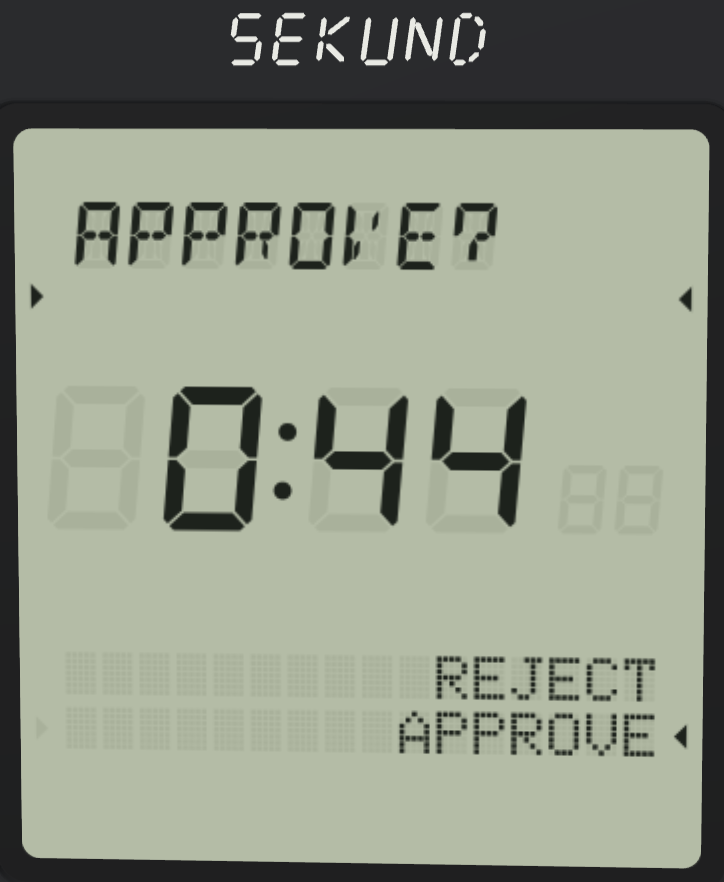
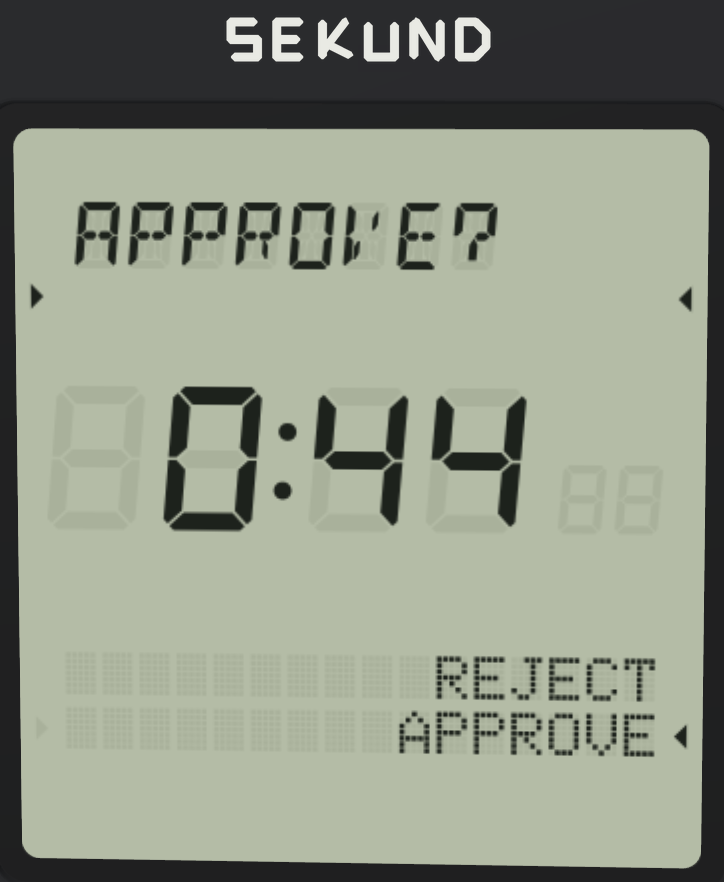
Draw four SEKUND wordmark directions and make the chamfer mark the deck's live one
deck/src/brand holds Block, Chamfer, Round and Dots as one evenodd polygon
path each on a 100-unit cap, plus the v2 segment mark for comparison.
WORDMARK in brand/index.ts is the single switch; Wordmark takes an
optional spec so the option sheet can draw them all. The LCD crops on
the proof, how-it-works and shipped slides carry the new mark; the
bezel crop with the old mark painted out is for the on-face preview.

Changed region(s): [[0.3039, 0.0, 0.6989, 0.0918]]

diff --git a/deck/src/brand/wordmark-round.ts b/deck/src/brand/wordmark-round.ts
@@ -1,0 +1,14 @@
+import type { WordmarkSpec } from "./types";
+
+/** Option C: Round. Extended, rounded, airy. Letters as if molded into soft resin; the friendliest of the set. Drawn from stroke skeletons on a 100-unit cap; polygons only, fill-rule evenodd. */
+export const ROUND: WordmarkSpec = {
+  id: "round",
+  label: "C",
+  name: "Round",
+  note: "Extended, rounded, airy. Letters as if molded into soft resin; the friendliest of the set.",
+  viewBox: "0 0 714 112",
+  width: 714,
+  height: 112,
+  path:
+    "M35.23,6.00 L30.66,6.36 L26.84,7.25 L25.57,7.66 L22.57,8.91 L21.38,9.51 L18.05,11.58 L14.56,14.56 L11.58,18.05 L9.51,21.38 L8.91,22.57 L7.66,25.57 L7.25,26.84 L6.36,30.66 L6.00,35.23 L6.36,39.84 L7.25,43.66 L7.66,44.93 L8.91,47.93 L9.51,49.12 L11.21,51.90 L12.00,52.98 L14.56,55.94 L17.52,58.50 L18.60,59.29 L21.96,61.31 L25.57,62.84 L26.84,63.25 L30.66,64.14 L35.23,64.50 L68.44,64.50 L70.68,64.68 L72.54,65.12 L74.31,65.86 L75.94,66.86 L77.40,68.10 L78.64,69.56 L79.64,71.19 L80.38,72.96 L80.82,74.82 L80.97,76.73 L80.82,78.68 L80.38,80.54 L79.64,82.31 L78.64,83.94 L77.40,85.40 L75.94,86.64 L74.31,87.64 L72.54,88.38 L70.68,88.82 L68.44,89.00 L14.50,89.00 L13.67,89.04 L12.84,89.16 L12.03,89.37 L11.25,89.65 L10.49,90.00 L9.78,90.43 L9.11,90.93 L8.49,91.49 L7.93,92.11 L7.43,92.78 L7.00,93.49 L6.65,94.25 L6.37,95.03 L6.16,95.84 L6.04,96.67 L6.00,97.50 L6.04,98.33 L6.16,99.16 L6.37,99.97 L6.65,100.75 L7.00,101.51 L7.43,102.22 L7.93,102.89 L8.49,103.51 L9.11,104.07 L9.78,104.57 L10.49,105.00 L11.25,105.35 L12.03,105.63 L12.84,105.84 L13.67,105.96 L14.50,106.00 L69.44,105.97 L73.34,105.64 L77.16,104.75 L78.43,104.34 L82.04,102.81 L85.95,100.42 L88.95,97.89 L89.89,96.95 L92.42,93.95 L94.49,90.62 L95.09,89.43 L96.57,85.80 L97.51,82.00 L97.72,80.68 L98.00,76.77 L97.72,72.82 L97.51,71.50 L96.57,67.70 L95.09,64.07 L94.49,62.88 L92.79,60.10 L92.00,59.02 L89.44,56.06 L86.48,53.50 L85.40,52.71 L82.04,50.69 L78.43,49.16 L77.16,48.75 L74.00,47.99 L72.68,47.78 L68.77,47.50 L35.56,47.50 L33.32,47.32 L31.46,46.88 L29.69,46.14 L28.06,45.14 L26.60,43.90 L25.36,42.44 L24.36,40.81 L23.62,39.04 L23.18,37.18 L23.03,35.23 L23.18,33.32 L23.62,31.46 L24.36,29.69 L25.36,28.06 L26.60,26.60 L28.06,25.36 L29.69,24.36 L31.46,23.62 L33.32,23.18 L35.56,23.00 L89.50,23.00 L90.33,22.96 L91.16,22.84 L91.97,22.63 L92.75,22.35 L93.51,22.00 L94.22,21.57 L94.89,21.07 L95.51,20.51 L96.07,19.89 L96.57,19.22 L97.00,18.51 L97.35,17.75 L97.63,16.97 L97.84,16.16 L97.96,15.33 L98.00,14.50 L97.96,13.67 L97.84,12.84 L97.63,12.03 L97.35,11.25 L97.00,10.49 L96.57,9.78 L96.07,9.11 L95.51,8.49 L94.89,7.93 L94.22,7.43 L93.51,7.00 L92.75,6.65 L91.97,6.37 L91.16,6.16 L90.33,6.04 L89.50,6.00 Z M206.38,64.46 L207.21,64.34 L208.02,64.13 L208.80,63.85 L209.56,63.50 L210.27,63.07 L210.94,62.57 L211.56,62.01 L212.12,61.39 L212.62,60.72 L213.05,60.01 L213.40,59.25 L213.68,58.47 L213.89,57.66 L214.01,56.83 L214.05,56.00 L214.01,55.17 L213.89,54.34 L213.68,53.53 L213.40,52.75 L213.05,51.99 L212.62,51.28 L212.12,50.61 L211.56,49.99 L210.94,49.43 L210.27,48.93 L209.56,48.50 L208.80,48.15 L208.02,47.87 L207.21,47.66 L206.38,47.54 L205.55,47.50 L145.00,47.50 L145.00,25.83 L145.06,25.11 L145.30,24.38 L145.75,23.75 L146.05,23.50 L146.74,23.15 L147.83,23.00 L211.50,23.00 L212.33,22.96 L213.16,22.84 L213.97,22.63 L214.75,22.35 L215.51,22.00 L216.22,21.57 L216.89,21.07 L217.51,20.51 L218.07,19.89 L218.57,19.22 L219.00,18.51 L219.35,17.75 L219.63,16.97 L219.84,16.16 L219.96,15.33 L220.00,14.50 L219.96,13.67 L219.84,12.84 L219.63,12.03 L219.35,11.25 L219.00,10.49 L218.57,9.78 L218.07,9.11 L217.51,8.49 L216.89,7.93 L216.22,7.43 L215.51,7.00 L214.75,6.65 L213.97,6.37 L213.16,6.16 L212.33,6.04 L211.50,6.00 L146.83,6.03 L144.45,6.24 L142.12,6.77 L140.85,7.19 L138.65,8.13 L136.59,9.35 L135.51,10.14 L133.71,11.71 L131.72,14.04 L130.13,16.65 L128.95,19.47 L128.24,22.45 L128.03,24.83 L128.03,87.17 L128.24,89.55 L128.77,91.88 L129.19,93.15 L130.13,95.35 L131.72,97.96 L133.26,99.80 L134.20,100.74 L136.04,102.28 L138.65,103.87 L141.47,105.05 L144.45,105.76 L147.50,106.00 L211.50,106.00 L212.33,105.96 L213.16,105.84 L213.97,105.63 L214.75,105.35 L215.51,105.00 L216.22,104.57 L216.89,104.07 L217.51,103.51 L218.07,102.89 L218.57,102.22 L219.00,101.51 L219.35,100.75 L219.63,99.97 L219.84,99.16 L219.96,98.33 L220.00,97.50 L219.96,96.67 L219.84,95.84 L219.63,95.03 L219.35,94.25 L219.00,93.49 L218.57,92.78 L218.07,92.11 L217.51,91.49 L216.89,90.93 L216.22,90.43 L215.51,90.00 L214.75,89.65 L213.97,89.37 L213.16,89.16 L212.33,89.04 L211.50,89.00 L147.83,89.00 L146.74,88.85 L146.05,88.50 L145.50,87.95 L145.15,87.26 L145.06,86.89 L145.00,86.17 L145.00,64.50 L205.55,64.50 Z M337.90,20.76 L339.04,19.78 L339.53,19.21 L340.33,17.94 L340.87,16.54 L341.04,15.81 L341.15,14.31 L340.96,12.83 L340.49,11.40 L339.76,10.10 L338.78,8.96 L337.59,8.04 L336.25,7.36 L334.81,6.96 L333.31,6.85 L332.57,6.91 L331.10,7.24 L329.73,7.84 L267.00,43.36 L267.00,14.50 L266.96,13.67 L266.84,12.84 L266.63,12.03 L266.35,11.25 L266.00,10.49 L265.57,9.78 L265.07,9.11 L264.51,8.49 L263.89,7.93 L263.22,7.43 L262.51,7.00 L261.75,6.65 L260.97,6.37 L260.16,6.16 L259.33,6.04 L258.50,6.00 L257.67,6.04 L256.84,6.16 L256.03,6.37 L255.25,6.65 L254.49,7.00 L253.78,7.43 L253.11,7.93 L252.49,8.49 L251.93,9.11 L251.43,9.78 L251.00,10.49 L250.65,11.25 L250.37,12.03 L250.16,12.84 L250.04,13.67 L250.00,14.50 L250.00,97.50 L250.04,98.33 L250.16,99.16 L250.37,99.97 L250.65,100.75 L251.00,101.51 L251.43,102.22 L251.93,102.89 L252.49,103.51 L253.11,104.07 L253.78,104.57 L254.49,105.00 L255.25,105.35 L256.03,105.63 L256.84,105.84 L257.67,105.96 L258.50,106.00 L259.33,105.96 L260.16,105.84 L260.97,105.63 L261.75,105.35 L262.51,105.00 L263.22,104.57 L263.89,104.07 L264.51,103.51 L265.07,102.89 L265.57,102.22 L266.00,101.51 L266.35,100.75 L266.63,99.97 L266.84,99.16 L266.96,98.33 L267.00,97.50 L267.00,68.64 L330.40,104.49 L331.83,104.96 L332.57,105.09 L333.31,105.15 L334.81,105.04 L336.25,104.64 L336.94,104.33 L337.59,103.96 L338.78,103.04 L339.76,101.90 L340.49,100.60 L340.96,99.17 L341.15,97.69 L341.13,96.94 L340.87,95.46 L340.33,94.06 L339.96,93.41 L339.04,92.22 L337.90,91.24 L275.73,56.00 Z M372.00,75.50 L372.38,80.27 L373.49,84.93 L375.32,89.35 L377.82,93.43 L380.93,97.07 L384.57,100.18 L388.65,102.68 L393.07,104.51 L397.73,105.62 L402.50,106.00 L434.17,105.97 L438.27,105.62 L442.93,104.51 L447.35,102.68 L451.43,100.18 L454.58,97.52 L455.52,96.58 L458.18,93.43 L460.35,89.93 L460.96,88.74 L462.51,84.93 L463.62,80.27 L464.00,75.50 L464.00,14.50 L463.96,13.67 L463.84,12.84 L463.63,12.03 L463.35,11.25 L463.00,10.49 L462.57,9.78 L462.07,9.11 L461.51,8.49 L460.89,7.93 L460.22,7.43 L459.51,7.00 L458.75,6.65 L457.97,6.37 L457.16,6.16 L456.33,6.04 L455.50,6.00 L454.67,6.04 L453.84,6.16 L453.03,6.37 L452.25,6.65 L451.49,7.00 L450.78,7.43 L450.11,7.93 L449.49,8.49 L448.93,9.11 L448.43,9.78 L448.00,10.49 L447.65,11.25 L447.37,12.03 L447.16,12.84 L447.04,13.67 L447.00,14.50 L447.00,75.17 L446.81,77.61 L446.31,79.66 L445.51,81.62 L444.40,83.42 L443.03,85.03 L441.42,86.40 L439.62,87.51 L437.66,88.31 L435.61,88.81 L433.17,89.00 L402.83,89.00 L400.39,88.81 L398.34,88.31 L396.38,87.51 L394.58,86.40 L392.97,85.03 L391.60,83.42 L390.49,81.62 L389.69,79.66 L389.19,77.61 L389.00,75.17 L389.00,14.50 L388.96,13.67 L388.84,12.84 L388.63,12.03 L388.35,11.25 L388.00,10.49 L387.57,9.78 L387.07,9.11 L386.51,8.49 L385.89,7.93 L385.22,7.43 L384.51,7.00 L383.75,6.65 L382.97,6.37 L382.16,6.16 L381.33,6.04 L380.50,6.00 L379.67,6.04 L378.84,6.16 L378.03,6.37 L377.25,6.65 L376.49,7.00 L375.78,7.43 L375.11,7.93 L374.49,8.49 L373.93,9.11 L373.43,9.78 L373.00,10.49 L372.65,11.25 L372.37,12.03 L372.16,12.84 L372.04,13.67 L372.00,14.50 Z M511.00,36.58 L571.77,103.78 L573.08,104.76 L574.55,105.47 L576.13,105.89 L577.76,106.00 L579.38,105.79 L580.93,105.28 L582.36,104.48 L583.60,103.42 L584.62,102.14 L585.38,100.69 L585.84,99.13 L586.00,97.50 L586.00,14.50 L585.96,13.67 L585.84,12.84 L585.63,12.03 L585.35,11.25 L585.00,10.49 L584.57,9.78 L584.07,9.11 L583.51,8.49 L582.89,7.93 L582.22,7.43 L581.51,7.00 L580.75,6.65 L579.97,6.37 L579.16,6.16 L578.33,6.04 L577.50,6.00 L576.67,6.04 L575.84,6.16 L575.03,6.37 L574.25,6.65 L573.49,7.00 L572.78,7.43 L572.11,7.93 L571.49,8.49 L570.93,9.11 L570.43,9.78 L570.00,10.49 L569.65,11.25 L569.37,12.03 L569.16,12.84 L569.04,13.67 L569.00,14.50 L569.00,75.42 L508.23,8.22 L506.92,7.24 L505.45,6.53 L503.87,6.11 L502.24,6.00 L500.62,6.21 L499.83,6.43 L498.34,7.09 L497.00,8.02 L495.86,9.20 L494.97,10.56 L494.62,11.31 L494.16,12.87 L494.00,14.50 L494.00,97.50 L494.04,98.33 L494.16,99.16 L494.37,99.97 L494.65,100.75 L495.00,101.51 L495.43,102.22 L495.93,102.89 L496.49,103.51 L497.11,104.07 L497.78,104.57 L498.49,105.00 L499.25,105.35 L500.03,105.63 L500.84,105.84 L501.67,105.96 L502.50,106.00 L503.33,105.96 L504.16,105.84 L504.97,105.63 L505.75,105.35 L506.51,105.00 L507.22,104.57 L507.89,104.07 L508.51,103.51 L509.07,102.89 L509.57,102.22 L510.00,101.51 L510.35,100.75 L510.63,99.97 L510.84,99.16 L510.96,98.33 L511.00,97.50 Z M658.00,106.00 L665.16,105.46 L666.48,105.25 L673.45,103.55 L680.70,100.55 L687.39,96.45 L692.87,91.81 L693.81,90.87 L698.45,85.39 L702.22,79.28 L702.83,78.09 L705.55,71.45 L707.38,63.82 L708.00,56.00 L707.46,48.84 L707.25,47.52 L705.73,41.19 L705.32,39.92 L702.55,33.30 L698.82,27.17 L698.04,26.09 L693.36,20.64 L687.91,15.96 L686.83,15.18 L680.70,11.45 L674.08,8.68 L672.81,8.27 L665.82,6.62 L658.00,6.00 L624.50,6.00 L623.67,6.04 L622.84,6.16 L622.03,6.37 L621.25,6.65 L620.49,7.00 L619.78,7.43 L619.11,7.93 L618.49,8.49 L617.93,9.11 L617.43,9.78 L617.00,10.49 L616.65,11.25 L616.37,12.03 L616.16,12.84 L616.04,13.67 L616.00,14.50 L616.00,97.50 L616.04,98.33 L616.16,99.16 L616.37,99.97 L616.65,100.75 L617.00,101.51 L617.43,102.22 L617.93,102.89 L618.49,103.51 L619.11,104.07 L619.78,104.57 L620.49,105.00 L621.25,105.35 L622.03,105.63 L622.84,105.84 L623.67,105.96 Z M633.00,23.00 L657.67,23.00 L663.16,23.43 L668.19,24.64 L672.97,26.62 L677.38,29.32 L681.32,32.68 L684.68,36.62 L687.38,41.03 L689.36,45.81 L690.57,50.84 L690.97,56.00 L690.57,61.16 L689.36,66.19 L687.38,70.97 L684.68,75.38 L681.32,79.32 L677.38,82.68 L672.97,85.38 L668.19,87.36 L663.16,88.57 L657.67,89.00 L633.00,89.00 Z",
+};

diff --git a/deck/src/brand/wordmark-dots.ts b/deck/src/brand/wordmark-dots.ts
@@ -1,0 +1,14 @@
+import type { WordmarkSpec } from "./types";
+
+/** Option D: Dots. 5x7 dot matrix, square dots. Native to the watch's text strip and to the dither; a readout more than a mark. Drawn from stroke skeletons on a 100-unit cap; polygons only, fill-rule evenodd. */
+export const DOTS: WordmarkSpec = {
+  id: "dots",
+  label: "D",
+  name: "Dots",
+  note: "5x7 dot matrix, square dots. Native to the watch's text strip and to the dither; a readout more than a mark.",
+  viewBox: "0 0 552 103",
+  width: 552,
+  height: 103,
+  path:
+    "M31.80,17.05 L31.80,5.53 L20.28,5.53 L20.28,17.05 Z M46.54,5.53 L35.02,5.53 L35.02,17.05 L46.54,17.05 Z M17.05,20.28 L5.53,20.28 L5.53,31.80 L17.05,31.80 Z M17.05,35.02 L5.53,35.02 L5.53,46.54 L17.05,46.54 Z M31.80,49.77 L20.28,49.77 L20.28,61.29 L31.80,61.29 Z M46.54,49.77 L35.02,49.77 L35.02,61.29 L46.54,61.29 Z M17.05,94.01 L5.53,94.01 L5.53,105.53 L17.05,105.53 Z M31.80,94.01 L20.28,94.01 L20.28,105.53 L31.80,105.53 Z M61.29,5.53 L49.77,5.53 L49.77,17.05 L61.29,17.05 Z M76.04,5.53 L64.52,5.53 L64.52,17.05 L76.04,17.05 Z M61.29,49.77 L49.77,49.77 L49.77,61.29 L61.29,61.29 Z M76.04,64.52 L64.52,64.52 L64.52,76.04 L76.04,76.04 Z M76.04,79.26 L64.52,79.26 L64.52,90.78 L76.04,90.78 Z M46.54,94.01 L35.02,94.01 L35.02,105.53 L46.54,105.53 Z M61.29,94.01 L49.77,94.01 L49.77,105.53 L61.29,105.53 Z M111.15,5.53 L99.63,5.53 L99.63,17.05 L111.15,17.05 Z M125.90,5.53 L114.38,5.53 L114.38,17.05 L125.90,17.05 Z M111.15,20.28 L99.63,20.28 L99.63,31.80 L111.15,31.80 Z M111.15,35.02 L99.63,35.02 L99.63,46.54 L111.15,46.54 Z M111.15,49.77 L99.63,49.77 L99.63,61.29 L111.15,61.29 Z M111.15,64.52 L99.63,64.52 L99.63,76.04 L111.15,76.04 Z M111.15,79.26 L99.63,79.26 L99.63,90.78 L111.15,90.78 Z M99.63,94.01 L99.63,105.53 L111.15,105.53 L111.15,94.01 Z M114.38,94.01 L114.38,105.53 L125.90,105.53 L125.90,94.01 Z M140.65,5.53 L129.12,5.53 L129.12,17.05 L140.65,17.05 Z M155.39,5.53 L143.87,5.53 L143.87,17.05 L155.39,17.05 Z M170.14,5.53 L158.62,5.53 L158.62,17.05 L170.14,17.05 Z M125.90,49.77 L114.38,49.77 L114.38,61.29 L125.90,61.29 Z M140.65,49.77 L129.12,49.77 L129.12,61.29 L140.65,61.29 Z M155.39,49.77 L143.87,49.77 L143.87,61.29 L155.39,61.29 Z M140.65,94.01 L129.12,94.01 L129.12,105.53 L140.65,105.53 Z M143.87,94.01 L143.87,105.53 L155.39,105.53 L155.39,94.01 Z M158.62,94.01 L158.62,105.53 L170.14,105.53 L170.14,94.01 Z M205.25,17.05 L205.25,5.53 L193.73,5.53 L193.73,17.05 Z M205.25,20.28 L193.73,20.28 L193.73,31.80 L205.25,31.80 Z M205.25,35.02 L193.73,35.02 L193.73,46.54 L205.25,46.54 Z M205.25,49.77 L193.73,49.77 L193.73,61.29 L205.25,61.29 Z M205.25,64.52 L193.73,64.52 L193.73,76.04 L205.25,76.04 Z M205.25,79.26 L193.73,79.26 L193.73,90.78 L205.25,90.78 Z M205.25,94.01 L193.73,94.01 L193.73,105.53 L205.25,105.53 Z M264.24,17.05 L264.24,5.53 L252.72,5.53 L252.72,17.05 Z M249.49,20.28 L237.97,20.28 L237.97,31.80 L249.49,31.80 Z M234.75,35.02 L223.23,35.02 L223.23,46.54 L234.75,46.54 Z M220.00,49.77 L208.48,49.77 L208.48,61.29 L220.00,61.29 Z M234.75,64.52 L223.23,64.52 L223.23,76.04 L234.75,76.04 Z M249.49,79.26 L237.97,79.26 L237.97,90.78 L249.49,90.78 Z M264.24,94.01 L252.72,94.01 L252.72,105.53 L264.24,105.53 Z M299.35,17.05 L299.35,5.53 L287.83,5.53 L287.83,17.05 Z M299.35,20.28 L287.83,20.28 L287.83,31.80 L299.35,31.80 Z M299.35,35.02 L287.83,35.02 L287.83,46.54 L299.35,46.54 Z M299.35,49.77 L287.83,49.77 L287.83,61.29 L299.35,61.29 Z M299.35,64.52 L287.83,64.52 L287.83,76.04 L299.35,76.04 Z M299.35,79.26 L287.83,79.26 L287.83,90.78 L299.35,90.78 Z M314.10,94.01 L302.58,94.01 L302.58,105.53 L314.10,105.53 Z M328.85,94.01 L317.33,94.01 L317.33,105.53 L328.85,105.53 Z M358.34,5.53 L346.82,5.53 L346.82,17.05 L358.34,17.05 Z M358.34,20.28 L346.82,20.28 L346.82,31.80 L358.34,31.80 Z M358.34,35.02 L346.82,35.02 L346.82,46.54 L358.34,46.54 Z M358.34,49.77 L346.82,49.77 L346.82,61.29 L358.34,61.29 Z M358.34,64.52 L346.82,64.52 L346.82,76.04 L358.34,76.04 Z M358.34,79.26 L346.82,79.26 L346.82,90.78 L358.34,90.78 Z M343.59,94.01 L332.07,94.01 L332.07,105.53 L343.59,105.53 Z M393.46,5.53 L381.94,5.53 L381.94,17.05 L393.46,17.05 Z M393.46,20.28 L381.94,20.28 L381.94,31.80 L393.46,31.80 Z M408.20,20.28 L396.68,20.28 L396.68,31.80 L408.20,31.80 Z M393.46,35.02 L381.94,35.02 L381.94,46.54 L393.46,46.54 Z M408.20,35.02 L396.68,35.02 L396.68,46.54 L408.20,46.54 Z M393.46,49.77 L381.94,49.77 L381.94,61.29 L393.46,61.29 Z M422.95,49.77 L411.43,49.77 L411.43,61.29 L422.95,61.29 Z M381.94,64.52 L381.94,76.04 L393.46,76.04 L393.46,64.52 Z M381.94,79.26 L381.94,90.78 L393.46,90.78 L393.46,79.26 Z M393.46,94.01 L381.94,94.01 L381.94,105.53 L393.46,105.53 Z M452.44,5.53 L440.92,5.53 L440.92,17.05 L452.44,17.05 Z M452.44,20.28 L440.92,20.28 L440.92,31.80 L452.44,31.80 Z M440.92,35.02 L440.92,46.54 L452.44,46.54 L452.44,35.02 Z M440.92,49.77 L440.92,61.29 L452.44,61.29 L452.44,49.77 Z M437.70,64.52 L426.18,64.52 L426.18,76.04 L437.70,76.04 Z M452.44,64.52 L440.92,64.52 L440.92,76.04 L452.44,76.04 Z M437.70,79.26 L426.18,79.26 L426.18,90.78 L437.70,90.78 Z M440.92,79.26 L440.92,90.78 L452.44,90.78 L452.44,79.26 Z M440.92,94.01 L440.92,105.53 L452.44,105.53 L452.44,94.01 Z M487.56,5.53 L476.04,5.53 L476.04,17.05 L487.56,17.05 Z M502.30,5.53 L490.78,5.53 L490.78,17.05 L502.30,17.05 Z M487.56,20.28 L476.04,20.28 L476.04,31.80 L487.56,31.80 Z M487.56,35.02 L476.04,35.02 L476.04,46.54 L487.56,46.54 Z M487.56,49.77 L476.04,49.77 L476.04,61.29 L487.56,61.29 Z M487.56,64.52 L476.04,64.52 L476.04,76.04 L487.56,76.04 Z M487.56,79.26 L476.04,79.26 L476.04,90.78 L487.56,90.78 Z M476.04,94.01 L476.04,105.53 L487.56,105.53 L487.56,94.01 Z M490.78,94.01 L490.78,105.53 L502.30,105.53 L502.30,94.01 Z M517.05,5.53 L505.53,5.53 L505.53,17.05 L517.05,17.05 Z M531.80,5.53 L520.28,5.53 L520.28,17.05 L531.80,17.05 Z M546.54,20.28 L535.02,20.28 L535.02,31.80 L546.54,31.80 Z M546.54,35.02 L535.02,35.02 L535.02,46.54 L546.54,46.54 Z M546.54,49.77 L535.02,49.77 L535.02,61.29 L546.54,61.29 Z M546.54,64.52 L535.02,64.52 L535.02,76.04 L546.54,76.04 Z M546.54,79.26 L535.02,79.26 L535.02,90.78 L546.54,90.78 Z M505.53,94.01 L505.53,105.53 L517.05,105.53 L517.05,94.01 Z M520.28,94.01 L520.28,105.53 L531.80,105.53 L531.80,94.01 Z",
+};

diff --git a/deck/src/ui/Wordmark.tsx b/deck/src/ui/Wordmark.tsx
@@ -1,12 +1,10 @@
-/** SEKUND wordmark v2, the same path the watch face and the companion use. Drawn, never set in a font. */
-const VIEWBOX = "0 0 606 152";
-const PATH =
-  "M43.90,26.00 L49.05,32.00 L89.05,32.00 L95.90,26.00 L90.74,20.00 L50.74,20.00 Z M40.48,29.00 L33.63,35.00 L29.14,67.00 L34.29,73.00 L41.14,67.00 L45.63,35.00 Z M36.87,76.00 L42.03,82.00 L82.03,82.00 L88.87,76.00 L83.71,70.00 L43.71,70.00 Z M91.45,79.00 L84.61,85.00 L80.11,117.00 L85.26,123.00 L92.11,117.00 L96.61,85.00 Z M29.84,126.00 L35.00,132.00 L75.00,132.00 L81.84,126.00 L76.69,120.00 L36.69,120.00 Z M139.90,26.00 L145.05,32.00 L185.05,32.00 L191.90,26.00 L186.74,20.00 L146.74,20.00 Z M136.48,29.00 L129.63,35.00 L125.14,67.00 L130.29,73.00 L137.14,67.00 L141.63,35.00 Z M132.87,76.00 L138.03,82.00 L178.03,82.00 L184.87,76.00 L179.71,70.00 L139.71,70.00 Z M129.45,79.00 L122.61,85.00 L118.11,117.00 L123.26,123.00 L130.11,117.00 L134.61,85.00 Z M125.84,126.00 L131.00,132.00 L171.00,132.00 L177.84,126.00 L172.69,120.00 L132.69,120.00 Z M232.48,29.00 L225.63,35.00 L221.14,67.00 L226.29,73.00 L233.14,67.00 L237.63,35.00 Z M225.45,79.00 L218.61,85.00 L214.11,117.00 L219.26,123.00 L226.11,117.00 L230.61,85.00 Z M239.12,65.81 L247.49,66.44 L285.68,37.07 L287.50,28.61 L279.13,27.98 L240.93,57.35 Z M236.25,86.19 L235.69,94.65 L265.63,124.02 L274.18,123.39 L274.74,114.93 L244.80,85.56 Z M328.48,29.00 L321.63,35.00 L310.11,117.00 L315.26,123.00 L322.11,117.00 L333.63,35.00 Z M317.84,126.00 L323.00,132.00 L363.00,132.00 L369.84,126.00 L364.69,120.00 L324.69,120.00 Z M386.48,29.00 L379.63,35.00 L368.11,117.00 L373.26,123.00 L380.11,117.00 L391.63,35.00 Z M424.48,29.00 L417.63,35.00 L406.11,117.00 L411.26,123.00 L418.11,117.00 L429.63,35.00 Z M482.48,29.00 L475.63,35.00 L464.11,117.00 L469.26,123.00 L476.11,117.00 L487.63,35.00 Z M430.83,39.49 L427.50,47.69 L455.02,110.33 L462.91,112.51 L466.25,104.31 L438.72,41.67 Z M520.48,29.00 L513.63,35.00 L502.11,117.00 L507.26,123.00 L514.11,117.00 L525.63,35.00 Z M523.90,26.00 L529.05,32.00 L545.05,32.00 L551.90,26.00 L546.74,20.00 L530.74,20.00 Z M556.72,28.12 L555.53,36.61 L565.22,47.88 L573.70,47.88 L574.89,39.39 L565.21,28.12 Z M575.10,53.00 L568.26,59.00 L563.48,93.00 L568.64,99.00 L575.48,93.00 L580.26,59.00 Z M565.80,104.12 L557.31,104.12 L544.46,115.39 L543.26,123.88 L551.75,123.88 L564.60,112.61 Z M537.84,126.00 L532.69,120.00 L516.69,120.00 L509.84,126.00 L515.00,132.00 L531.00,132.00 Z";
+import { WORDMARK, type WordmarkSpec } from "@/brand";
 
-export function Wordmark({ width = 240, className }: { width?: number; className?: string }) {
+/** The SEKUND wordmark. Drawn, never set in a font. Defaults to the brand's live option. */
+export function Wordmark({ width = 240, spec = WORDMARK, className, style }: { width?: number; spec?: WordmarkSpec; className?: string; style?: React.CSSProperties }) {
   return (
-    <svg viewBox={VIEWBOX} width={width} height={(width * 152) / 606} className={className} role="img" aria-label="SEKUND">
-      <path d={PATH} fill="currentColor" />
+    <svg viewBox={spec.viewBox} width={width} height={(width * spec.height) / spec.width} className={className} style={style} role="img" aria-label="SEKUND">
+      <path d={spec.path} fill="currentColor" fillRule="evenodd" />
     </svg>
   );
 }

diff --git a/deck/src/brand/wordmark-segment.ts b/deck/src/brand/wordmark-segment.ts
@@ -1,0 +1,14 @@
+import type { WordmarkSpec } from "./types";
+
+/** The v2 segment wordmark the watch face and the companion still draw. Kept for comparison. */
+export const SEGMENT: WordmarkSpec = {
+  id: "segment",
+  label: "v2",
+  name: "Segment",
+  note: "Fourteen-segment strokes with a gap at every joint, 8-degree slant. Reads as a readout, not a mark.",
+  viewBox: "0 0 606 152",
+  width: 606,
+  height: 152,
+  path:
+    "M43.90,26.00 L49.05,32.00 L89.05,32.00 L95.90,26.00 L90.74,20.00 L50.74,20.00 Z M40.48,29.00 L33.63,35.00 L29.14,67.00 L34.29,73.00 L41.14,67.00 L45.63,35.00 Z M36.87,76.00 L42.03,82.00 L82.03,82.00 L88.87,76.00 L83.71,70.00 L43.71,70.00 Z M91.45,79.00 L84.61,85.00 L80.11,117.00 L85.26,123.00 L92.11,117.00 L96.61,85.00 Z M29.84,126.00 L35.00,132.00 L75.00,132.00 L81.84,126.00 L76.69,120.00 L36.69,120.00 Z M139.90,26.00 L145.05,32.00 L185.05,32.00 L191.90,26.00 L186.74,20.00 L146.74,20.00 Z M136.48,29.00 L129.63,35.00 L125.14,67.00 L130.29,73.00 L137.14,67.00 L141.63,35.00 Z M132.87,76.00 L138.03,82.00 L178.03,82.00 L184.87,76.00 L179.71,70.00 L139.71,70.00 Z M129.45,79.00 L122.61,85.00 L118.11,117.00 L123.26,123.00 L130.11,117.00 L134.61,85.00 Z M125.84,126.00 L131.00,132.00 L171.00,132.00 L177.84,126.00 L172.69,120.00 L132.69,120.00 Z M232.48,29.00 L225.63,35.00 L221.14,67.00 L226.29,73.00 L233.14,67.00 L237.63,35.00 Z M225.45,79.00 L218.61,85.00 L214.11,117.00 L219.26,123.00 L226.11,117.00 L230.61,85.00 Z M239.12,65.81 L247.49,66.44 L285.68,37.07 L287.50,28.61 L279.13,27.98 L240.93,57.35 Z M236.25,86.19 L235.69,94.65 L265.63,124.02 L274.18,123.39 L274.74,114.93 L244.80,85.56 Z M328.48,29.00 L321.63,35.00 L310.11,117.00 L315.26,123.00 L322.11,117.00 L333.63,35.00 Z M317.84,126.00 L323.00,132.00 L363.00,132.00 L369.84,126.00 L364.69,120.00 L324.69,120.00 Z M386.48,29.00 L379.63,35.00 L368.11,117.00 L373.26,123.00 L380.11,117.00 L391.63,35.00 Z M424.48,29.00 L417.63,35.00 L406.11,117.00 L411.26,123.00 L418.11,117.00 L429.63,35.00 Z M482.48,29.00 L475.63,35.00 L464.11,117.00 L469.26,123.00 L476.11,117.00 L487.63,35.00 Z M430.83,39.49 L427.50,47.69 L455.02,110.33 L462.91,112.51 L466.25,104.31 L438.72,41.67 Z M520.48,29.00 L513.63,35.00 L502.11,117.00 L507.26,123.00 L514.11,117.00 L525.63,35.00 Z M523.90,26.00 L529.05,32.00 L545.05,32.00 L551.90,26.00 L546.74,20.00 L530.74,20.00 Z M556.72,28.12 L555.53,36.61 L565.22,47.88 L573.70,47.88 L574.89,39.39 L565.21,28.12 Z M575.10,53.00 L568.26,59.00 L563.48,93.00 L568.64,99.00 L575.48,93.00 L580.26,59.00 Z M565.80,104.12 L557.31,104.12 L544.46,115.39 L543.26,123.88 L551.75,123.88 L564.60,112.61 Z M537.84,126.00 L532.69,120.00 L516.69,120.00 L509.84,126.00 L515.00,132.00 L531.00,132.00 Z",
+};

diff --git a/deck/src/brand/wordmark-chamfer.ts b/deck/src/brand/wordmark-chamfer.ts
@@ -1,0 +1,14 @@
+import type { WordmarkSpec } from "./types";
+
+/** Option B: Chamfer. Medium weight, 45-degree cuts on every outer corner like the case bezel. Solid strokes, no display gaps. Drawn from stroke skeletons on a 100-unit cap; polygons only, fill-rule evenodd. */
+export const CHAMFER: WordmarkSpec = {
+  id: "chamfer",
+  label: "B",
+  name: "Chamfer",
+  note: "Medium weight, 45-degree cuts on every outer corner like the case bezel. Solid strokes, no display gaps.",
+  viewBox: "0 0 612 112",
+  width: 612,
+  height: 112,
+  path:
+    "M14.00,6.00 L6.00,14.00 L6.00,58.00 L14.00,66.00 L66.00,66.00 L66.00,86.00 L24.00,86.00 L16.00,94.00 L16.00,98.00 L24.00,106.00 L78.00,106.00 L86.00,98.00 L86.00,54.00 L78.00,46.00 L26.00,46.00 L26.00,26.00 L68.00,26.00 L76.00,18.00 L76.00,14.00 L68.00,6.00 Z M110.00,98.00 L118.00,106.00 L172.00,106.00 L180.00,98.00 L180.00,94.00 L172.00,86.00 L130.00,86.00 L130.00,66.00 L165.00,66.00 L173.00,58.00 L173.00,54.00 L165.00,46.00 L130.00,46.00 L130.00,26.00 L172.00,26.00 L180.00,18.00 L180.00,14.00 L172.00,6.00 L118.00,6.00 L110.00,14.00 Z M214.00,93.00 L222.00,101.00 L226.00,101.00 L234.00,93.00 L234.00,86.00 L239.40,78.80 L282.43,100.24 L294.00,93.08 L294.00,90.84 L289.57,83.68 L250.38,64.16 L284.40,18.80 L278.00,6.00 L275.50,6.00 L269.10,9.20 L234.00,56.00 L234.00,19.00 L226.00,11.00 L222.00,11.00 L214.00,19.00 Z M318.00,98.00 L326.00,106.00 L390.00,106.00 L398.00,98.00 L398.00,24.00 L390.00,16.00 L386.00,16.00 L378.00,24.00 L378.00,86.00 L338.00,86.00 L338.00,24.00 L330.00,16.00 L326.00,16.00 L318.00,24.00 Z M430.00,11.00 L422.00,19.00 L422.00,93.00 L430.00,101.00 L434.00,101.00 L442.00,93.00 L442.00,40.53 L479.66,102.17 L486.49,106.00 L488.83,106.00 L491.64,101.00 L494.00,101.00 L502.00,93.00 L502.00,19.00 L494.00,11.00 L490.00,11.00 L482.00,19.00 L482.00,71.47 L444.34,9.83 L437.51,6.00 L435.17,6.00 L432.36,11.00 Z M526.00,98.00 L534.00,106.00 L572.83,106.00 L578.49,103.66 L603.66,78.49 L606.00,72.83 L606.00,39.17 L603.66,33.51 L578.49,8.34 L572.83,6.00 L534.00,6.00 L526.00,14.00 Z M567.86,26.00 L586.00,44.14 L586.00,67.86 L567.86,86.00 L546.00,86.00 L546.00,26.00 Z",
+};

diff --git a/deck/src/brand/wordmark-block.ts b/deck/src/brand/wordmark-block.ts
@@ -1,0 +1,14 @@
+import type { WordmarkSpec } from "./types";
+
+/** Option A: Block. Heavy, condensed, square. Reads at any size, survives any dither; the most 'tool' of the four. Drawn from stroke skeletons on a 100-unit cap; polygons only, fill-rule evenodd. */
+export const BLOCK: WordmarkSpec = {
+  id: "block",
+  label: "A",
+  name: "Block",
+  note: "Heavy, condensed, square. Reads at any size, survives any dither; the most 'tool' of the four.",
+  viewBox: "0 0 538 112",
+  width: 538,
+  height: 112,
+  path:
+    "M6.00,6.00 L6.00,67.00 L60.00,67.00 L60.00,84.00 L17.00,84.00 L17.00,106.00 L82.00,106.00 L82.00,45.00 L28.00,45.00 L28.00,28.00 L71.00,28.00 L71.00,6.00 Z M96.00,106.00 L161.00,106.00 L161.00,84.00 L118.00,84.00 L118.00,67.00 L153.30,67.00 L153.30,45.00 L118.00,45.00 L118.00,28.00 L161.00,28.00 L161.00,6.00 L96.00,6.00 Z M208.00,91.40 L214.63,80.92 L262.00,106.00 L262.00,84.59 L224.77,64.88 L262.00,6.00 L239.62,6.00 L208.00,56.00 L208.00,12.00 L186.00,12.00 L186.00,106.00 L198.77,106.00 L202.56,100.00 L208.00,100.00 Z M276.00,106.00 L352.00,106.00 L352.00,17.00 L330.00,17.00 L330.00,84.00 L298.00,84.00 L298.00,17.00 L276.00,17.00 Z M366.00,12.00 L366.00,100.00 L388.00,100.00 L388.00,46.13 L420.00,106.00 L441.45,106.00 L438.25,100.00 L442.00,100.00 L442.00,12.00 L420.00,12.00 L420.00,65.87 L388.00,6.00 L366.55,6.00 L369.75,12.00 Z M456.00,106.00 L502.76,106.00 L532.00,76.76 L532.00,35.24 L502.76,6.00 L456.00,6.00 Z M493.64,28.00 L510.00,44.36 L510.00,67.64 L493.64,84.00 L478.00,84.00 L478.00,28.00 Z",
+};

diff --git a/deck/src/brand/index.ts b/deck/src/brand/index.ts
@@ -1,0 +1,14 @@
+import { BLOCK } from "./wordmark-block";
+import { CHAMFER } from "./wordmark-chamfer";
+import { DOTS } from "./wordmark-dots";
+import { ROUND } from "./wordmark-round";
+import { SEGMENT } from "./wordmark-segment";
+
+export type { WordmarkSpec } from "./types";
+export { BLOCK, CHAMFER, DOTS, ROUND, SEGMENT };
+
+/** The wordmark the deck draws everywhere. Swap the import to change it. */
+export const WORDMARK = CHAMFER;
+
+/** The four directions on the option sheet, in sheet order. */
+export const WORDMARK_OPTIONS = [BLOCK, CHAMFER, ROUND, DOTS] as const;

diff --git a/deck/src/brand/types.ts b/deck/src/brand/types.ts
@@ -1,0 +1,13 @@
+/** A drawn SEKUND wordmark: one SVG path, polygons only, fill-rule evenodd. */
+export interface WordmarkSpec {
+  id: string;
+  /** Letter used on the option sheet (A, B, C, D). */
+  label: string;
+  name: string;
+  /** One line on what the direction is for. */
+  note: string;
+  viewBox: string;
+  width: number;
+  height: number;
+  path: string;
+}
